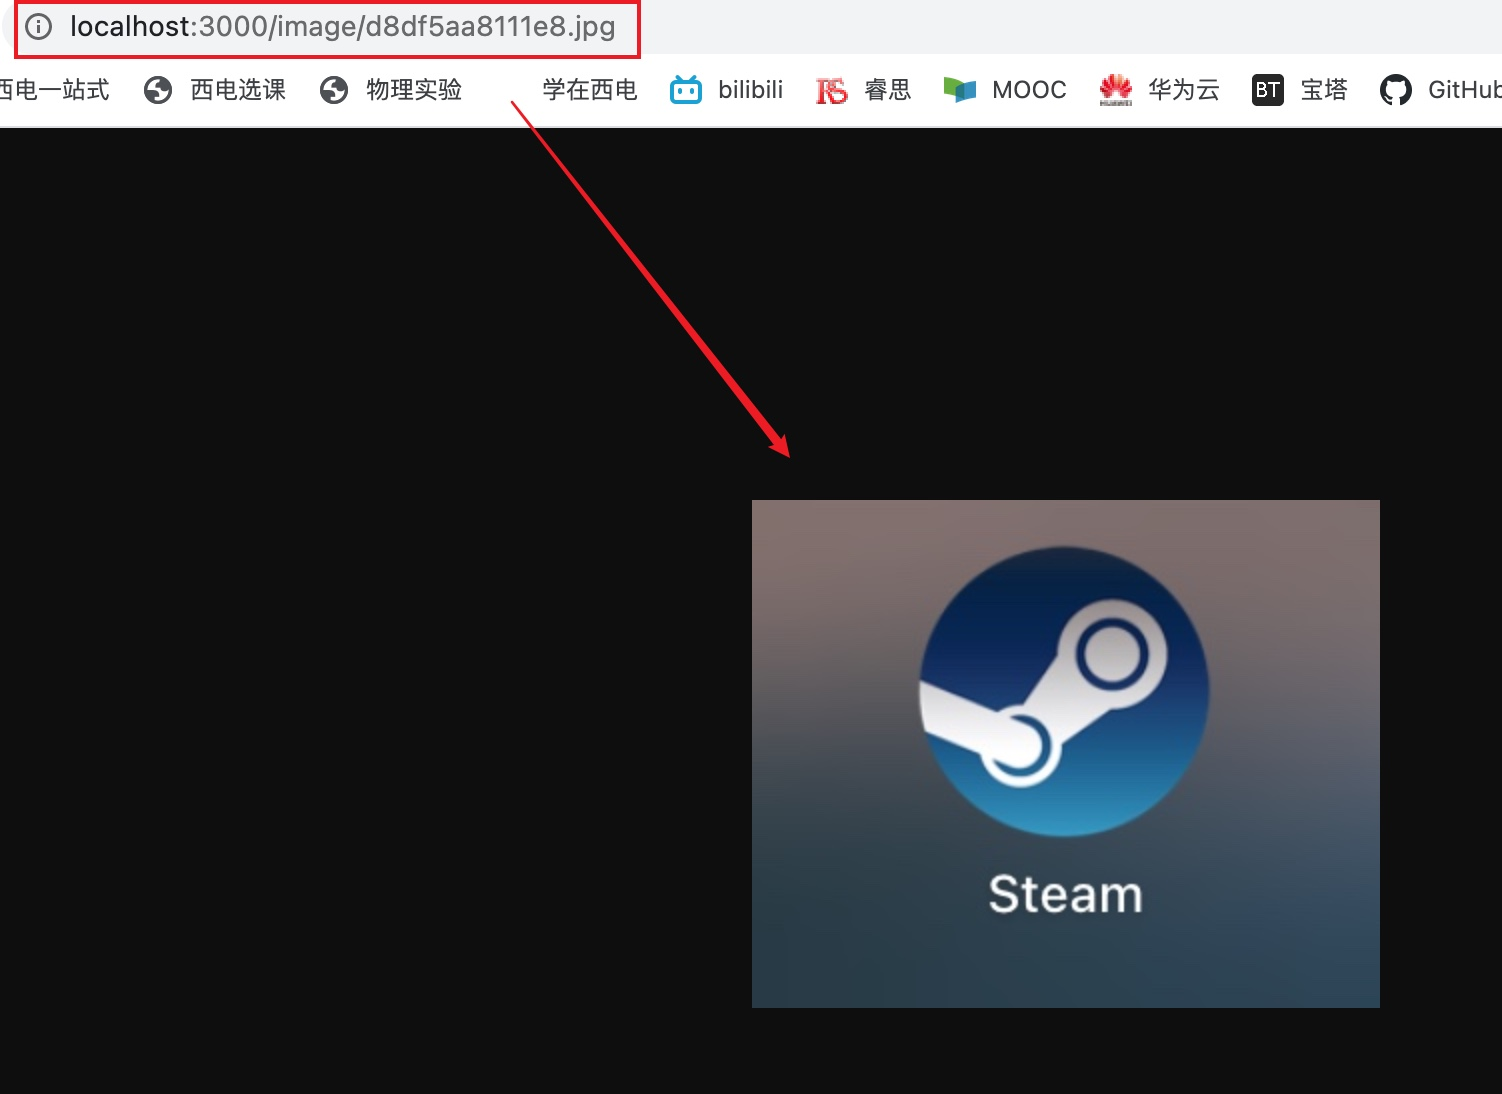
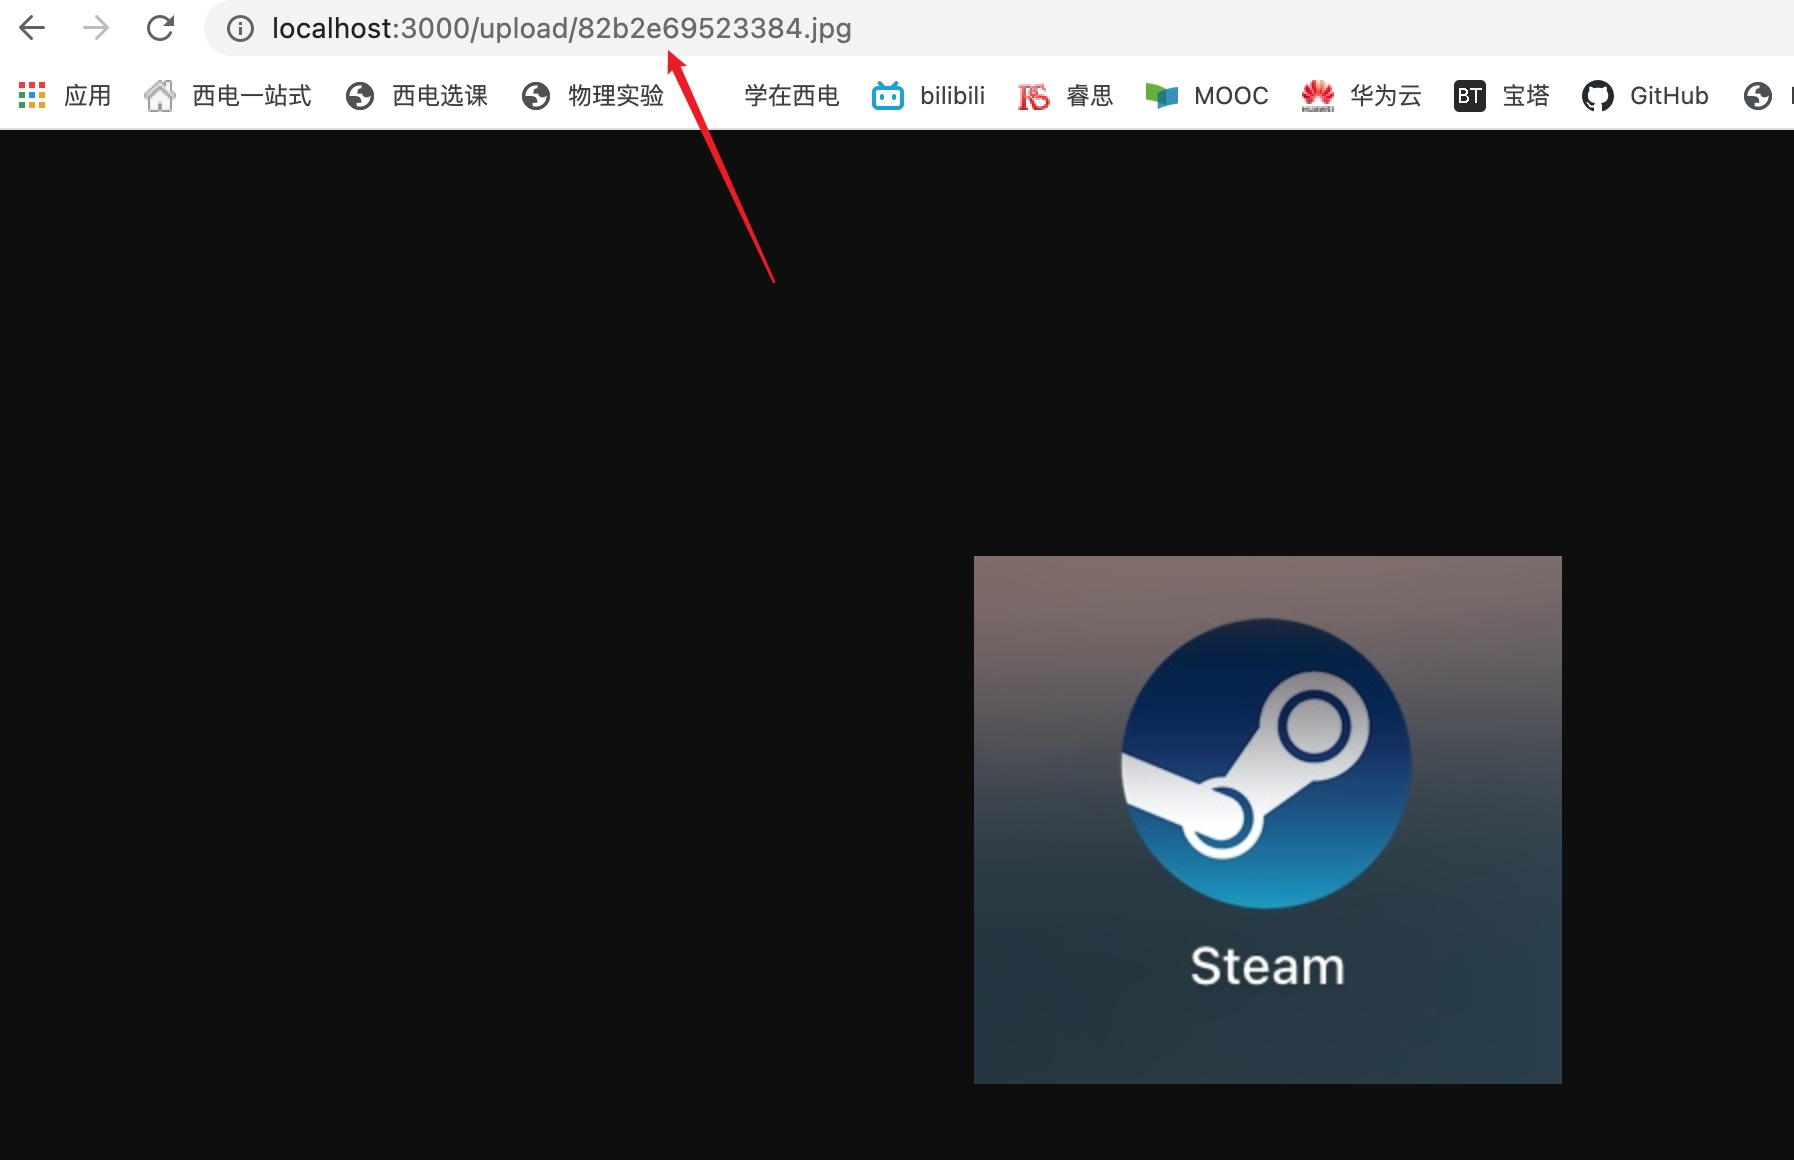
V3

diff --git a/server/index.js b/server/index.js
@@ -1,6 +1,5 @@
 const Koa = require('koa')
 const cors = require("koa2-cors")
-const views = require('koa-views')
 const path = require('path')
 const static = require('koa-static')
 const bodyParser = require('koa-bodyparser')
@@ -17,10 +16,6 @@ const app = new Koa()
  app.use(cors({}))
  app.use(bodyParser())
 
-app.use(views(path.join(__dirname, './view'), {
-  extension: 'ejs'
-}))
-
 // 静态资源目录对于相对入口文件index.js的路径
 const staticPath = './static'
 
@@ -32,41 +27,52 @@ app.use(static(
  */
 
 app.use( async ( ctx ) => {
-  var result = {success: false}
-
-  //获取管理页面
-  if ( ctx.url === '/'  && ctx.method === 'GET' ) {
-    // 停用
-    // let title = 'upload pic async'
-    // await ctx.render('index', {
-    //   title,
-    // })
-  }
+  var result = {code: 500}
   //上传图片
-  else if ( ctx.url === '/api/picture/upload' && ctx.method === 'POST' ) {
-    // 上传文件请求处理
-    let serverFilePath = path.join( __dirname, 'static/image' )
-
-    // 上传文件事件
+  if ( ctx.url === '/api/picture/upload' && ctx.method === 'POST' ) {
+    let serverFilePath = path.join( __dirname, './static/upload' )
     result = await upload.uploadFile( ctx, {
-      //fileType: 'album', //暂时取消
       path: serverFilePath
     })
-    ctx.body = result
-    console.log(result)
+    if(result.success){
+      ctx.status=200
+      ctx.body = {
+        url: result.url
+      }
+    }else{
+      ctx.status=500
+      ctx.message="upload error"
+    }
+    console.log(ctx.response)
   }
   //获取所有图片
   else if ( ctx.url === '/api/picture/getAll' && ctx.method === 'GET' ) {
-    result = await getAll.getAllFile(ctx, "./static/image")
-    ctx.body = result
-    console.log(result)
+    result = await getAll.getAllFile(ctx, "./static/upload")
+    if(result.success){
+      ctx.status=200
+      ctx.body = {
+        collection: result.collection
+      }
+    }else{
+      ctx.status=500
+      ctx.message="getAll error"
+      ctx.body = {
+        collection: []
+      }
+    }
+    console.log(ctx.response)
   }
   //删除一张图片
   else if ( ctx.url === '/api/picture/deleteOne' && ctx.method === 'DELETE' ) {
     console.log('delete: ', ctx.request.body)
-    result = await deleteFile.deleteOne(`./static/image/${ctx.request.body.name}`)
-    ctx.body = result
-    console.log(result)
+    result = await deleteFile.deleteOne(`./static/upload/${ctx.request.body.name}`)
+    if(result.success){
+      ctx.status=200
+    }else{
+      ctx.status=500
+      ctx.message="delete error"
+    }
+    console.log(ctx.response)
   }
   //其他请求显示404
   else {
@@ -74,7 +80,6 @@ app.use( async ( ctx ) => {
   }
 
 })
-
 
 app.listen(3000, () => {
   console.log('server is starting at http://localhost:3000')

diff --git a/server/util/upload.js b/server/util/upload.js
@@ -1,6 +1,4 @@
-const inspect = require('util').inspect
 const path = require('path')
-const os = require('os')
 const fs = require('fs')
 const Busboy = require('busboy')
 
@@ -38,21 +36,19 @@ function getSuffixName( fileName ) {
  */
 function uploadFile( ctx, options) {
   let req = ctx.req
-  let res = ctx.res
   let busboy = new Busboy({headers: req.headers})
 
   // 获取类型
   // let fileType = options.fileType || 'common'
   // let filePath = path.join( options.path,  fileType)
   let filePath = path.join( options.path)
-  let mkdirResult = mkdirsSync( filePath )
+  //let mkdirResult = mkdirsSync( filePath )
 
   return new Promise((resolve, reject) => {
     console.log('文件上传中...')
     let result = {
-      success: false,
-      message: '',
-      data: null
+      success: true,
+      url: null
     }
 
     // 解析请求文件事件
@@ -66,13 +62,8 @@ function uploadFile( ctx, options) {
 
       // 文件写入事件结束
       file.on('end', function() {
-        result.success = true
-        result.message = '文件上传成功'
-        result.data = {
-          // pictureUrl: `http://${ctx.host}/image/${fileType}/${fileName}`
-          pictureUrl: `http://${ctx.host}/image/${fileName}`
-        }
-        console.log('文件上传成功！url：http:'+result.data.pictureUrl)
+        result.url = `/upload/${fileName}`
+        console.log('文件上传成功 path: '+result.url)
         resolve(result)
       })
     })
@@ -86,14 +77,14 @@ function uploadFile( ctx, options) {
     // 解析错误事件
     busboy.on('error', function(err) {
       console.log('文件上出错')
-      reject(result)
+      result.success = false
+      resolve(result)
     })
 
     req.pipe(busboy)
   })
 
 }
-
 
 module.exports =  {
   uploadFile

diff --git a/server/util/getAll.js b/server/util/getAll.js
@@ -1,22 +1,23 @@
 var fs=require('fs');
 var path=require('path');
 
-var extnames = ['.jpg', '.png', '.jpeg']
+var extnames = ['.jpg', '.png', '.jpeg', 'gif', 'svg', 'bmp']
 
 function getAllFile(ctx, filePath){
     return new Promise((resolve, reject) => {
         let res = {
-            success:  "true",
-            message: "url获取成功",
+            success: true,
             collection: []
         }
         fs.readdir(filePath, function(err, files){
             if(err){
+                res.success = false;
                 console.log(err);
+                resolve(res);
             }else{
                 files.forEach(function(fileName){
                     if(extnames.includes(path.extname(fileName))){
-                        res.collection.push(`http://${ctx.host}/image/${fileName}`);  
+                        res.collection.push(`/upload/${fileName}`);  
                     }
                 })
                 resolve(res);

diff --git a/src/views/upload.vue b/src/views/upload.vue
@@ -35,13 +35,13 @@ export default {
       return isJpgOrPng && isLt2M
     },
     uploadChange (info) {
-      // console.log(info)
+      console.log(info)
       if (info.file.status === 'uploading') {
         console.log('uploading')
         this.fileList = info.fileList
-      } else if (info.file.status === 'done' && info.file.response.success === true) {
+      } else if (info.file.status === 'done') {
         console.log('done', this.fileList.length)
-        console.log(info.file.response.data.pictureUrl)
+        console.log(info.file.response)
         this.$message.success('Success!')
         console.log(this.fileList)
       } else {

diff --git a/src/views/library.vue b/src/views/library.vue
@@ -35,7 +35,10 @@ export default {
           console.log(response.data.collection)
           that.collection.length = 0
           const tempArr = response.data.collection
-          for (var i = 0; i < tempArr.length; i += 4) {
+          for (let i = 0; i < tempArr.length; ++i) {
+            tempArr[i] = `http://${host}` + tempArr[i]
+          }
+          for (let i = 0; i < tempArr.length; i += 4) {
             that.collection.push(tempArr.slice(i, i + 4))
           }
           console.log(that.collection)

diff --git a/server/util/delete.js b/server/util/delete.js
@@ -4,14 +4,14 @@ function deleteOne (path) {
     return new Promise((resolve, reject) => {
         let res={
             success: true,
-            message: 'delete ok',
         }
         if (fs.existsSync(path)) {
             fs.unlinkSync(path);
             resolve(res)
         } else {
             console.log('要删除的文件不存在');
-            reject(res);
+            res.success=false
+            resolve(res);
         }
     })
 }

diff --git a/README.md b/README.md
@@ -12,79 +12,113 @@ mediaLib
 
 ## 所需模块
 - 前端demo
-  - vue/cli
-  ![image](./images/npmls.jpg)
+
+  目录：/	
+
+  npm install
+
+  
 
 - 后端
-  - koa
-  - koa-views
-  - koa-static
-  - koa2-cors
-  - busboy
-  - ejs
+
+  目录：/
+
+  npm install
 
 ## API
 ### 上传图片
 - 请求：
 
-  http://localhost:3000/api/picture/upload 
-
-  （xxx:xx/api/picture/upload）
+  /api/picture/upload 
 
 - 响应
 
-  {
+  - 成功
 
-  	success: boolean,
+    {
 
-  	message: string,
+    	status: 200,
 
-  	data: {
+    	message: 'OK',
 
-  		pictureUrl: string
+    	body: {
 
-  		//其他暂无...
+    		url: /upload/example.jpg
 
-  	}
+    	}
 
-  }
+    }
+
+  - 失败
+
+    {
+
+    	status: 500,
+
+    	message: 'upload error'
+
+    }
 ### 删除图片
 
 - 请求：
 
-  http://localhost:3000/api/picture/deleteOne
-
-  （xxx:xx//api/picture/deleteOne）
+  /api/picture/deleteOne
 
 - 响应
 
-  {
+  - 成功
 
-  	success: boolean,
+    {
 
-  	message: string
+    	success: 200,
 
-  }
+    	message: 'OK'
+  
+    }
+  
+  - 失败
+  
+    {
+  
+    	status: 500,
+  
+    	message: 'delete error'
+  
+    }
 
 ### 获取所有图片
 
 - 请求：
 
-  http://localhost:3000/api/picture/getAll
-
-  （xxx:xx//api/picture/getAll）
+  /api/picture/getAll
 
 - 响应
 
-  {
+  - 成功
 
-  	success: boolean,
+    {
 
-  	message: string,
+    	success: 200,
 
-  	collection: []
+    	message: 'OK',
 
-  }
+    	body: {
+
+    		collection: []
+    
+    	}
+    
+    }
+
+  - 失败
+
+    {
+
+    	status: 500,
+
+    	message: 'getAll error'
+
+    }
 
 ## 演示
 ![image](./images/demo1.jpg)
@@ -92,4 +126,3 @@ mediaLib
 ![image](./images/demo2.jpg)
 ![image](./images/demo3.jpg)
 
-![image](./images/demo4.jpg)
